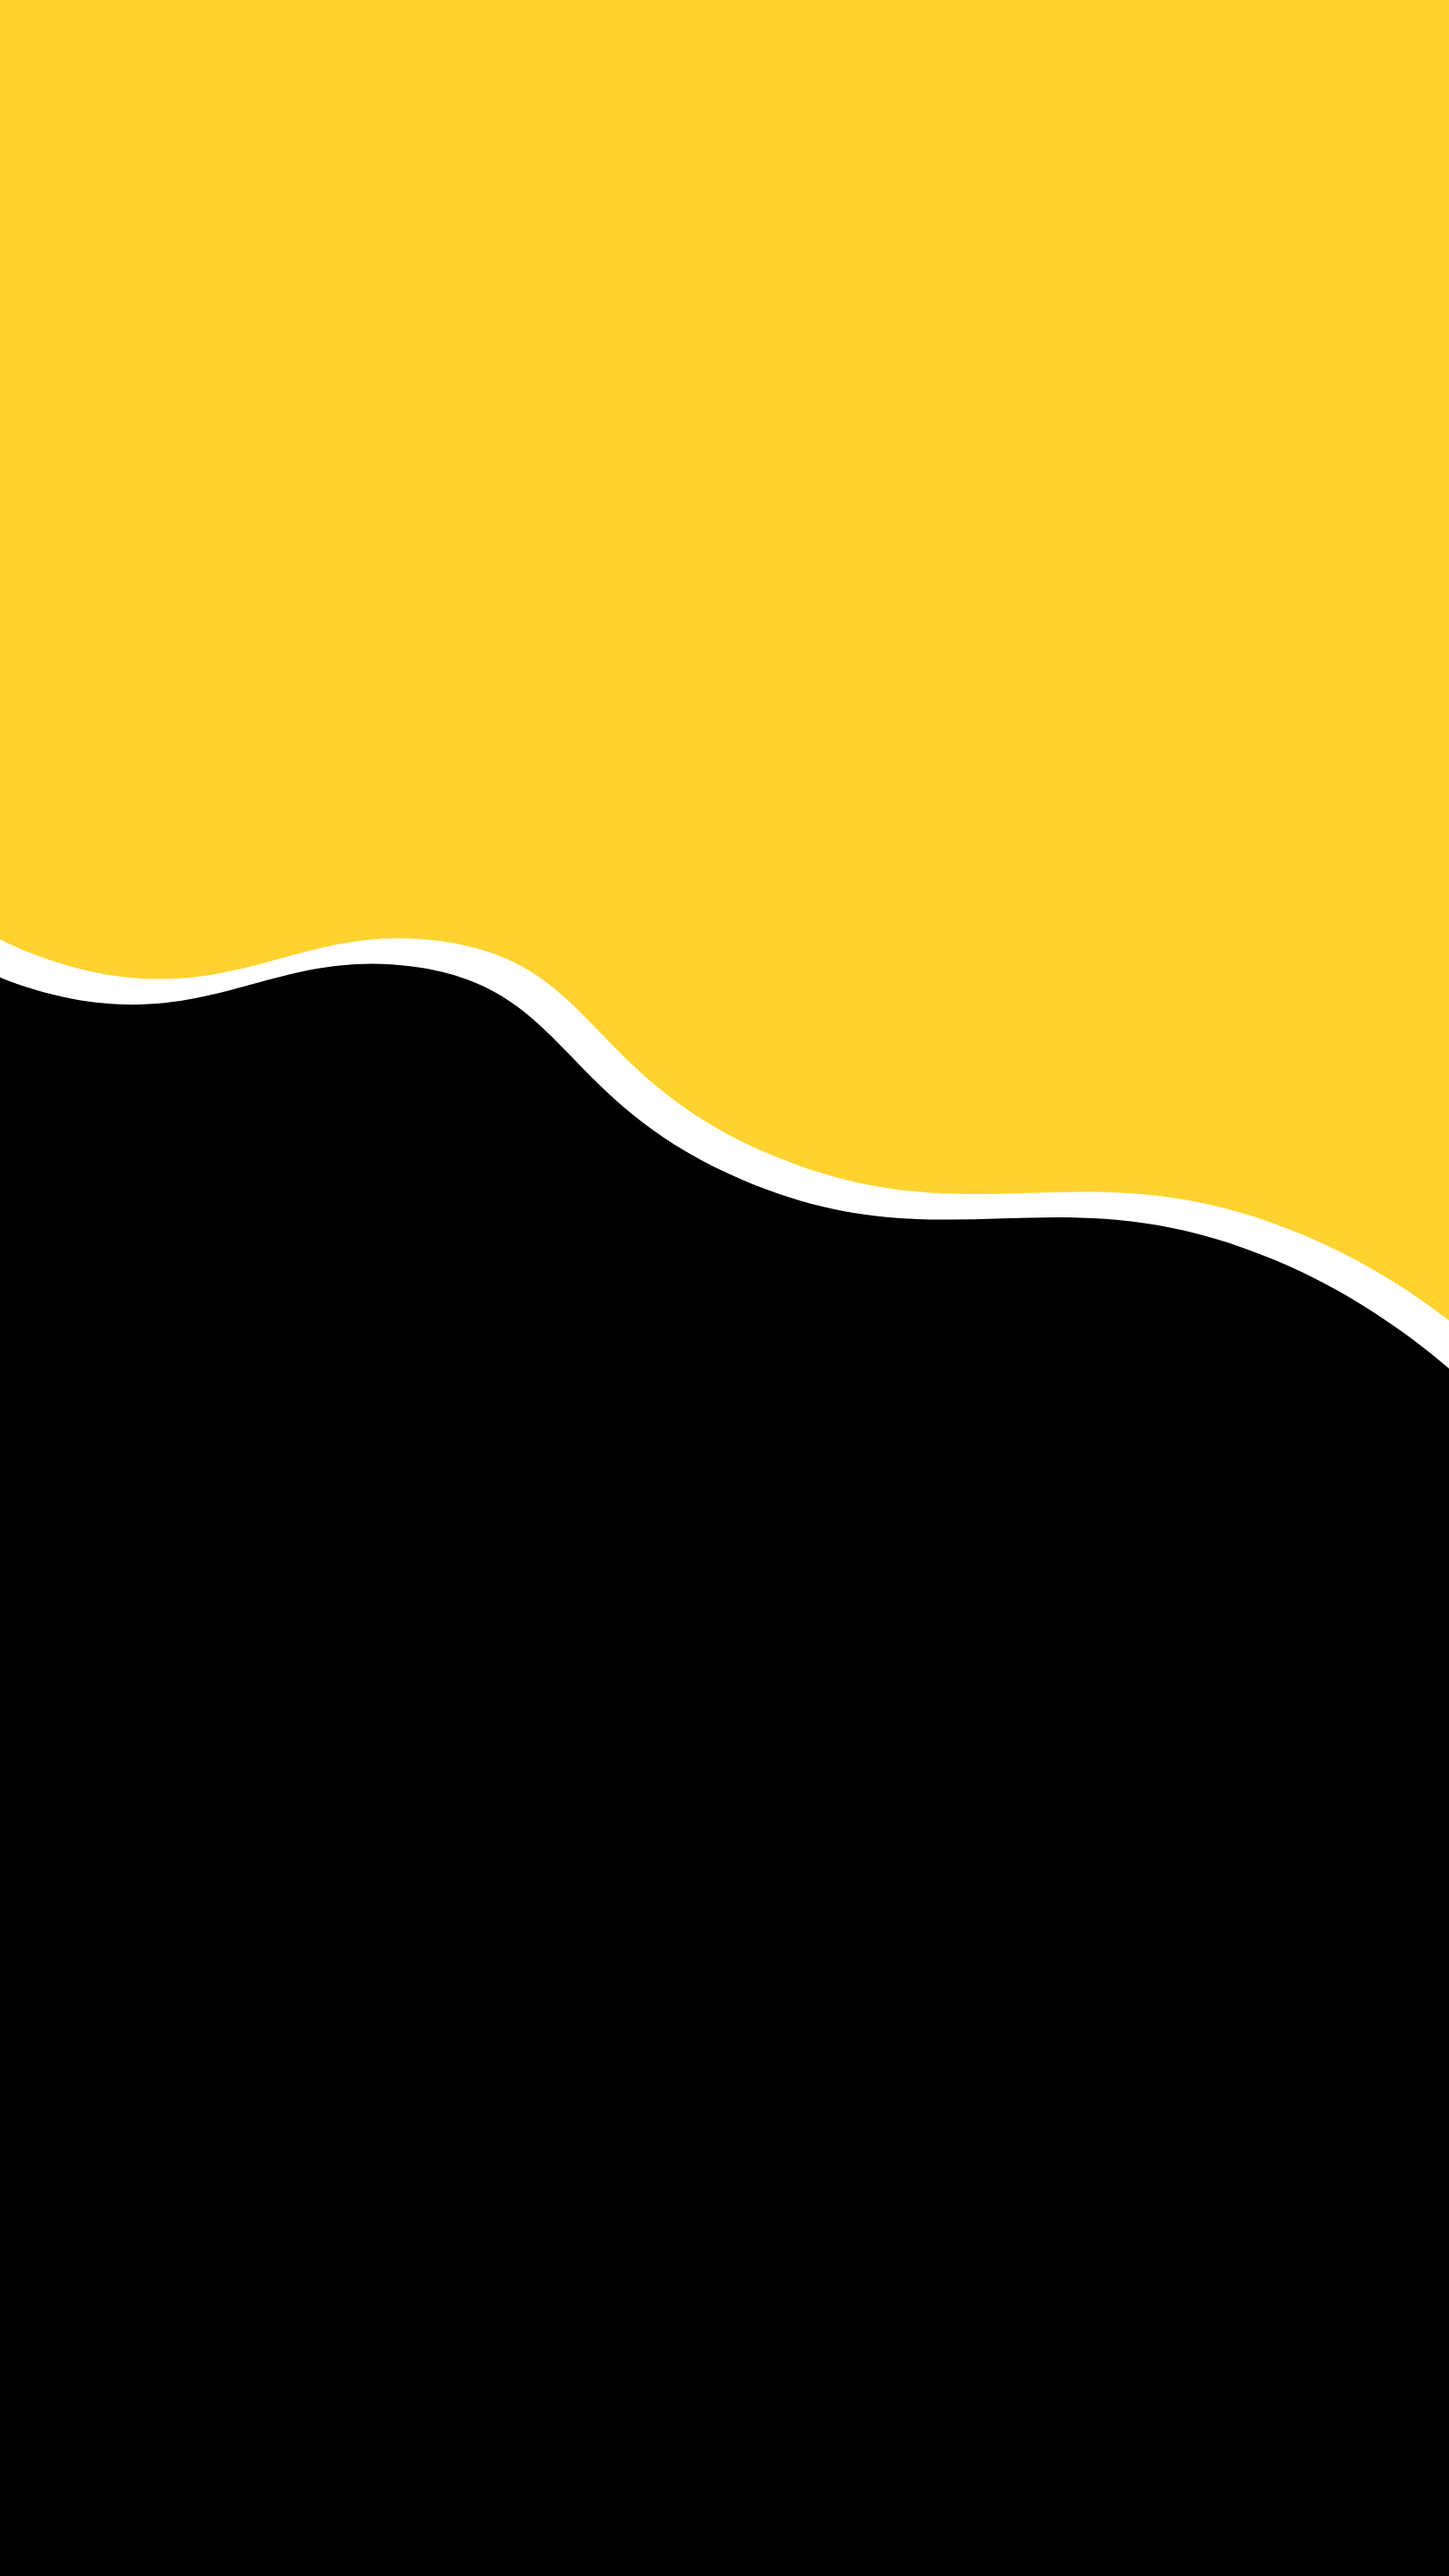
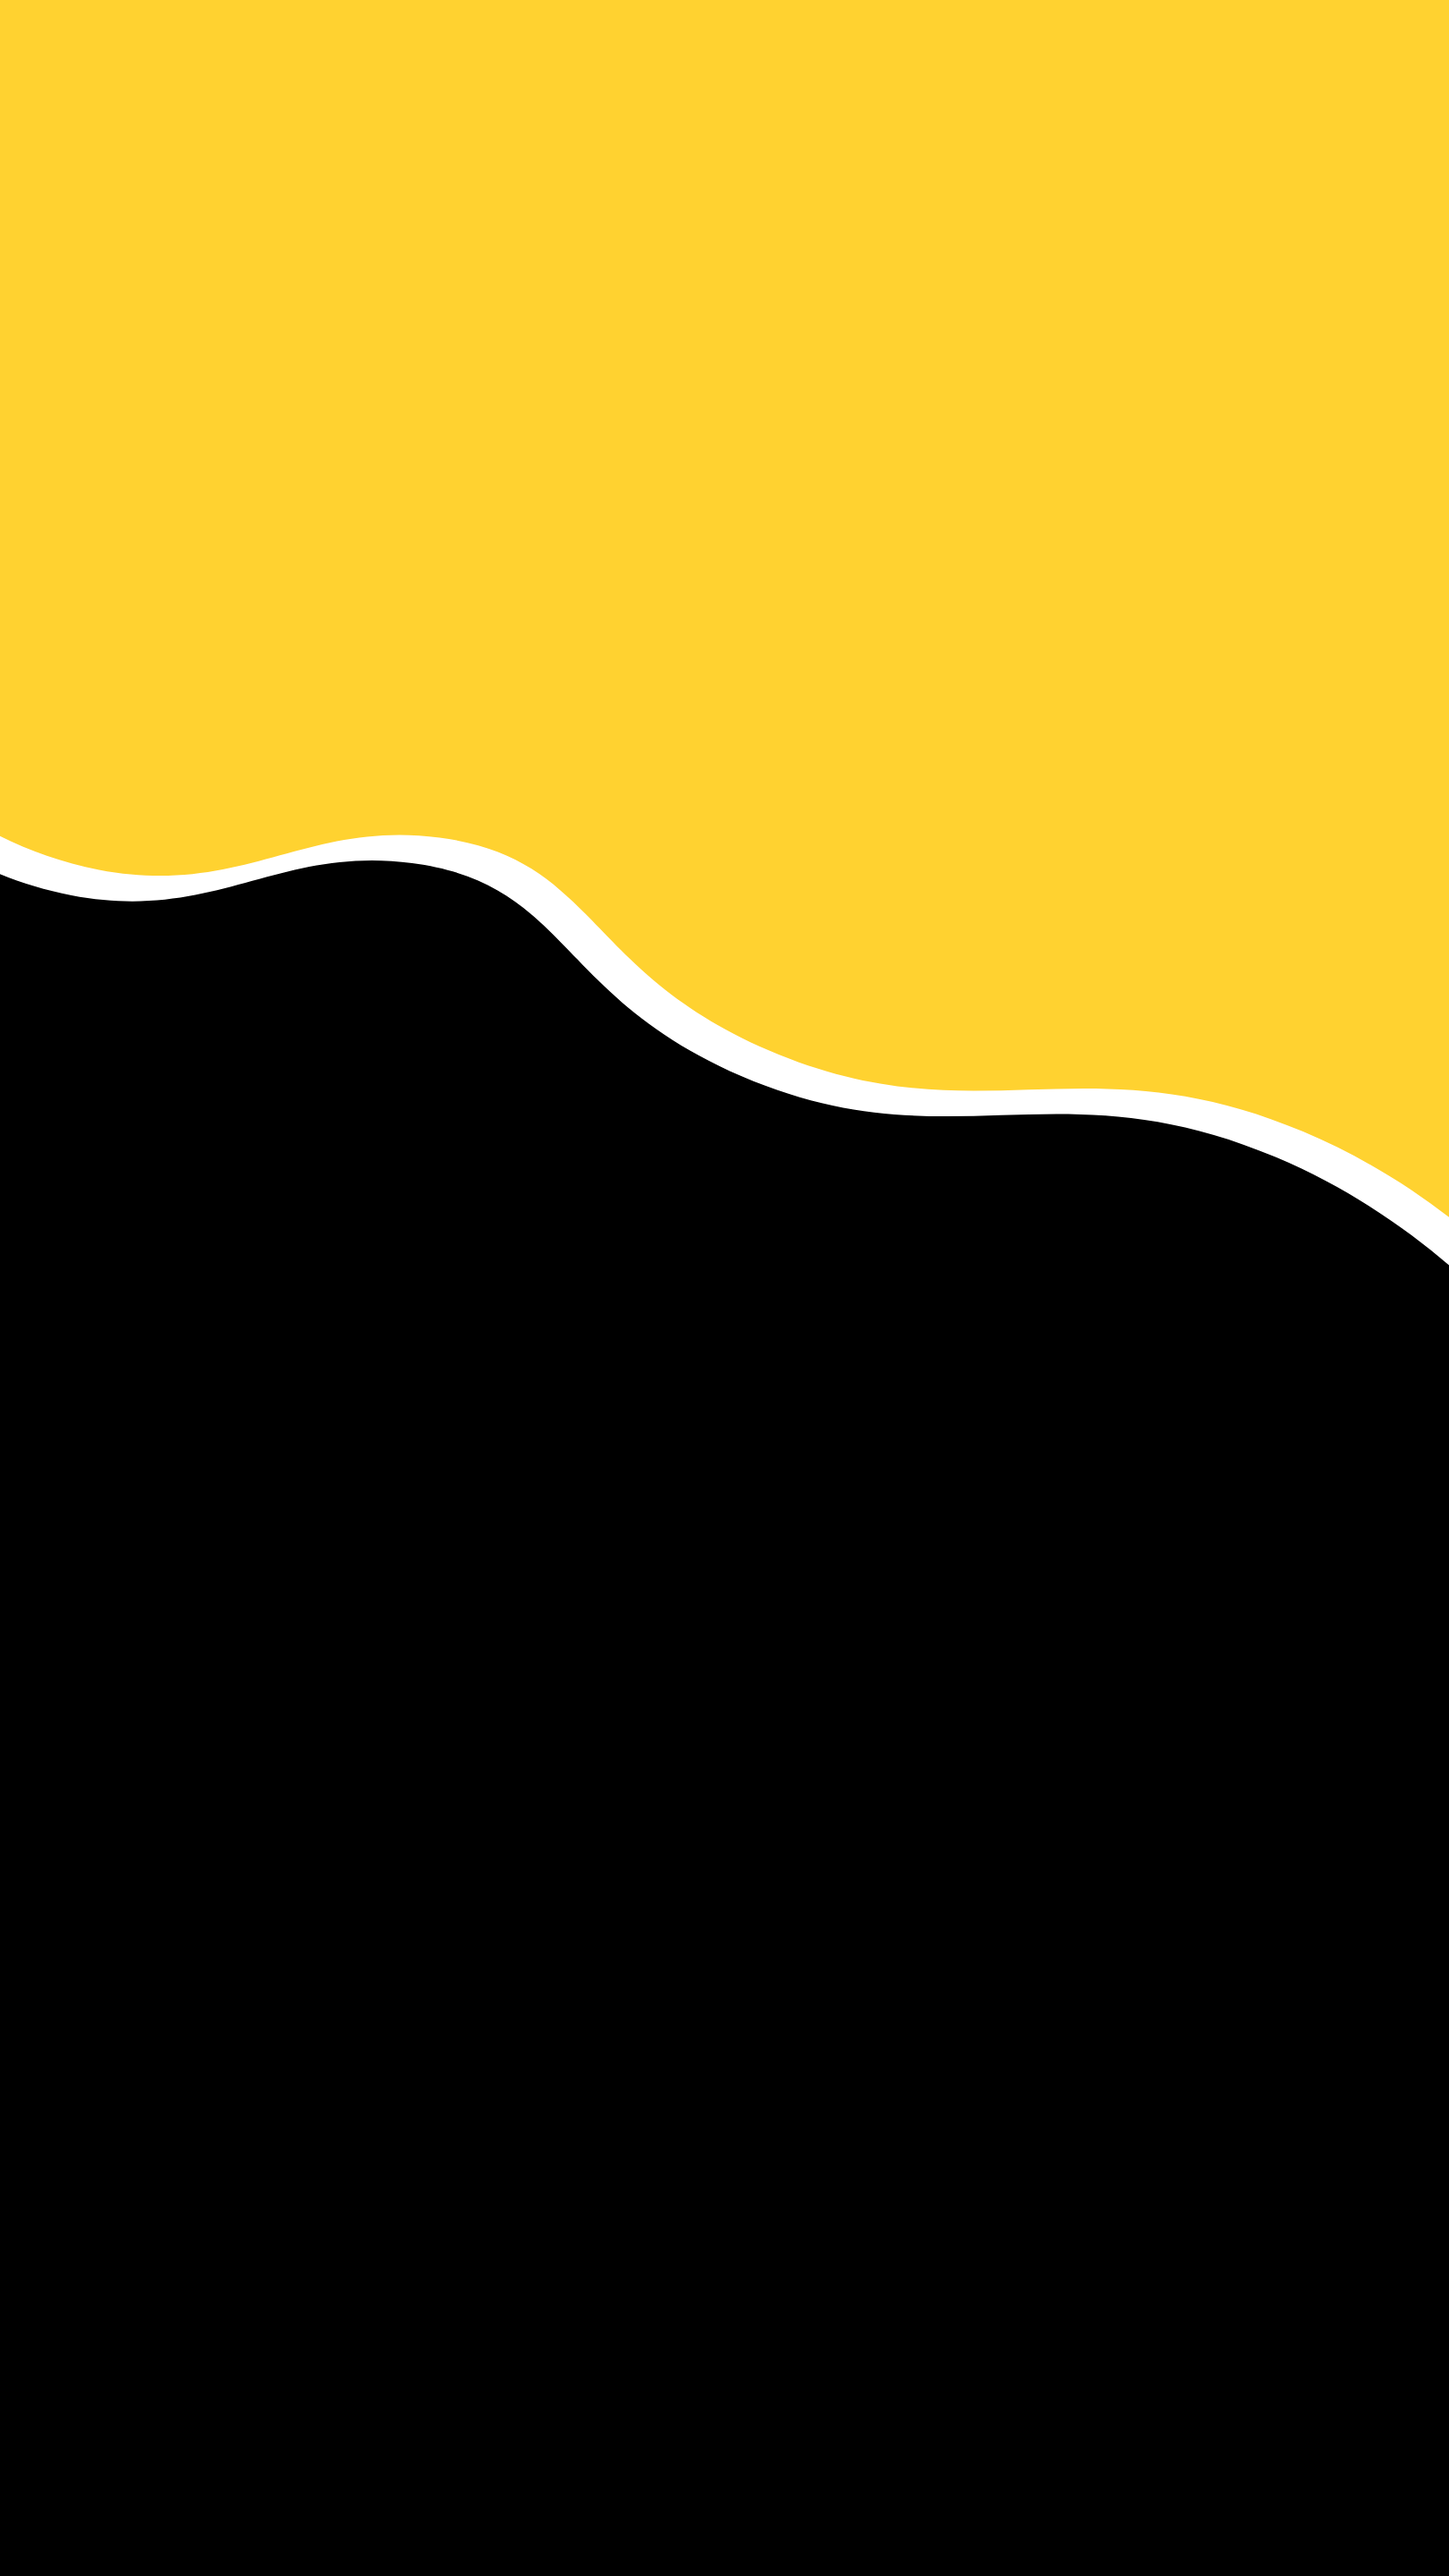
20 u- atualizando botão de login

Changed region(s): [[0.0, 0.3125, 1.0, 0.5312]]

diff --git a/src/css/authentication.css b/src/css/authentication.css
@@ -1,6 +1,6 @@
 .authentication{
     margin-top: 15px;
-    margin-bottom: 60px;
+    margin-bottom: 75px;
     display: flex;
     flex-direction: column;
     align-items: center;
@@ -75,9 +75,12 @@
     border: none;
     border-radius: var(--border);
     background: var(--primary-color);
+}
+.authentication button a{
+    color: #f5f5f5;
+    width: 100%;
     font-size: 1.5rem;
     font-weight: 600;
-    color: #f5f5f5;
 }
 
 .authentication p{

diff --git a/src/components/Authentication.jsx b/src/components/Authentication.jsx
@@ -26,7 +26,7 @@ function Authentication() {
             </article>
             <a>Esqueceu a senha?</a>
         </section>
-        <Link to='/Home'><button>Entrar</button></Link>
+        <button><Link to='/Home'>Entrar</Link></button>
         <p>Não tem uma conta? <a>Criar</a></p>
     </section>
   )

diff --git a/src/css/style.css b/src/css/style.css
@@ -74,7 +74,7 @@ body{
 }
 
 .welcome{
-    margin-top: -80px;
+    margin-top: -65px;
     display: flex;
     flex-direction: column;
     justify-content: center;
